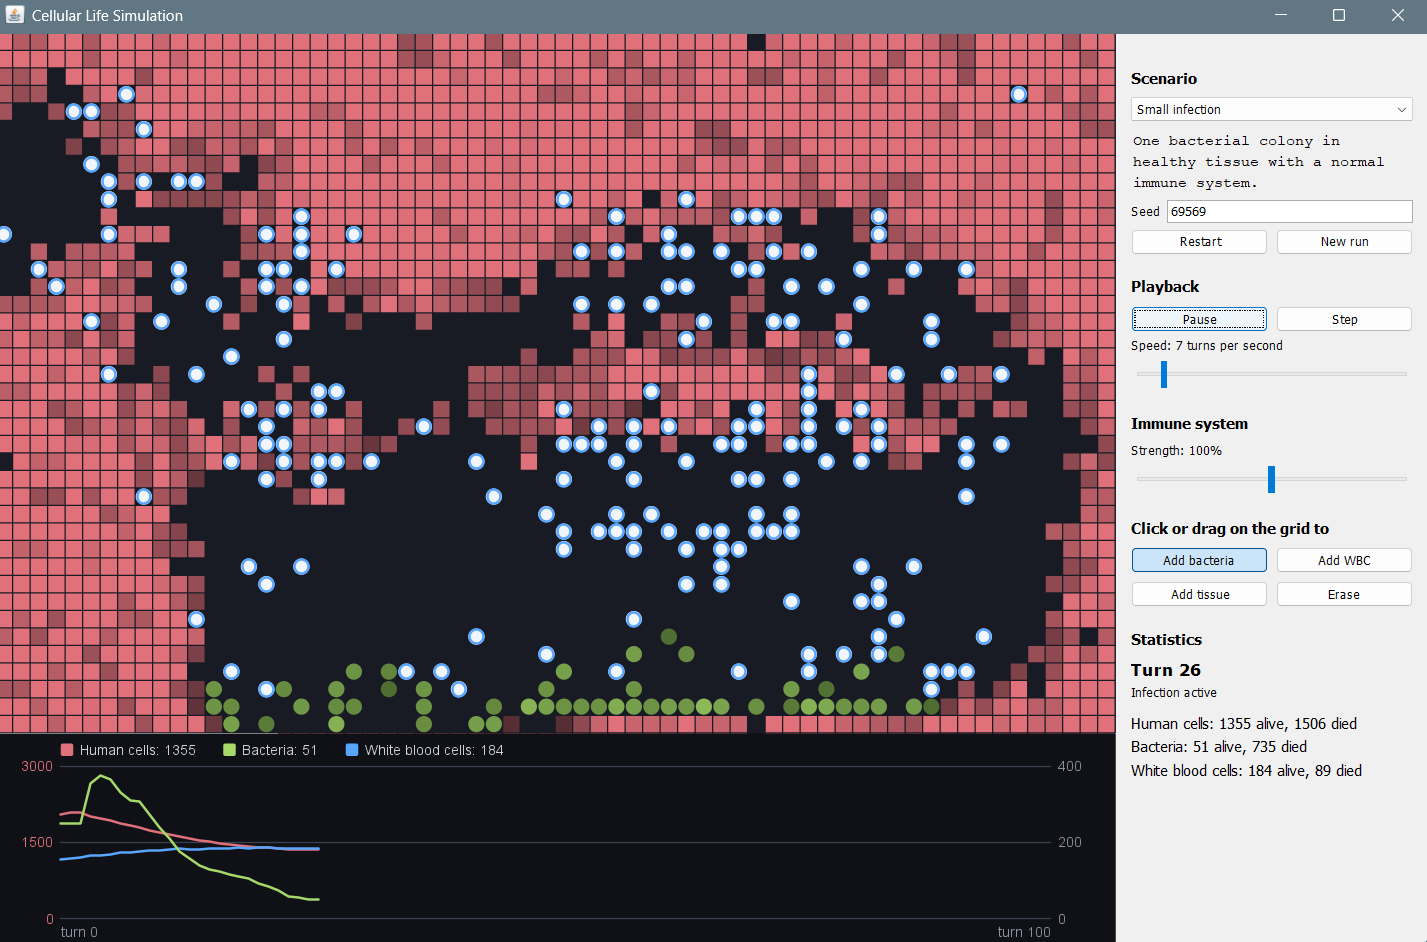
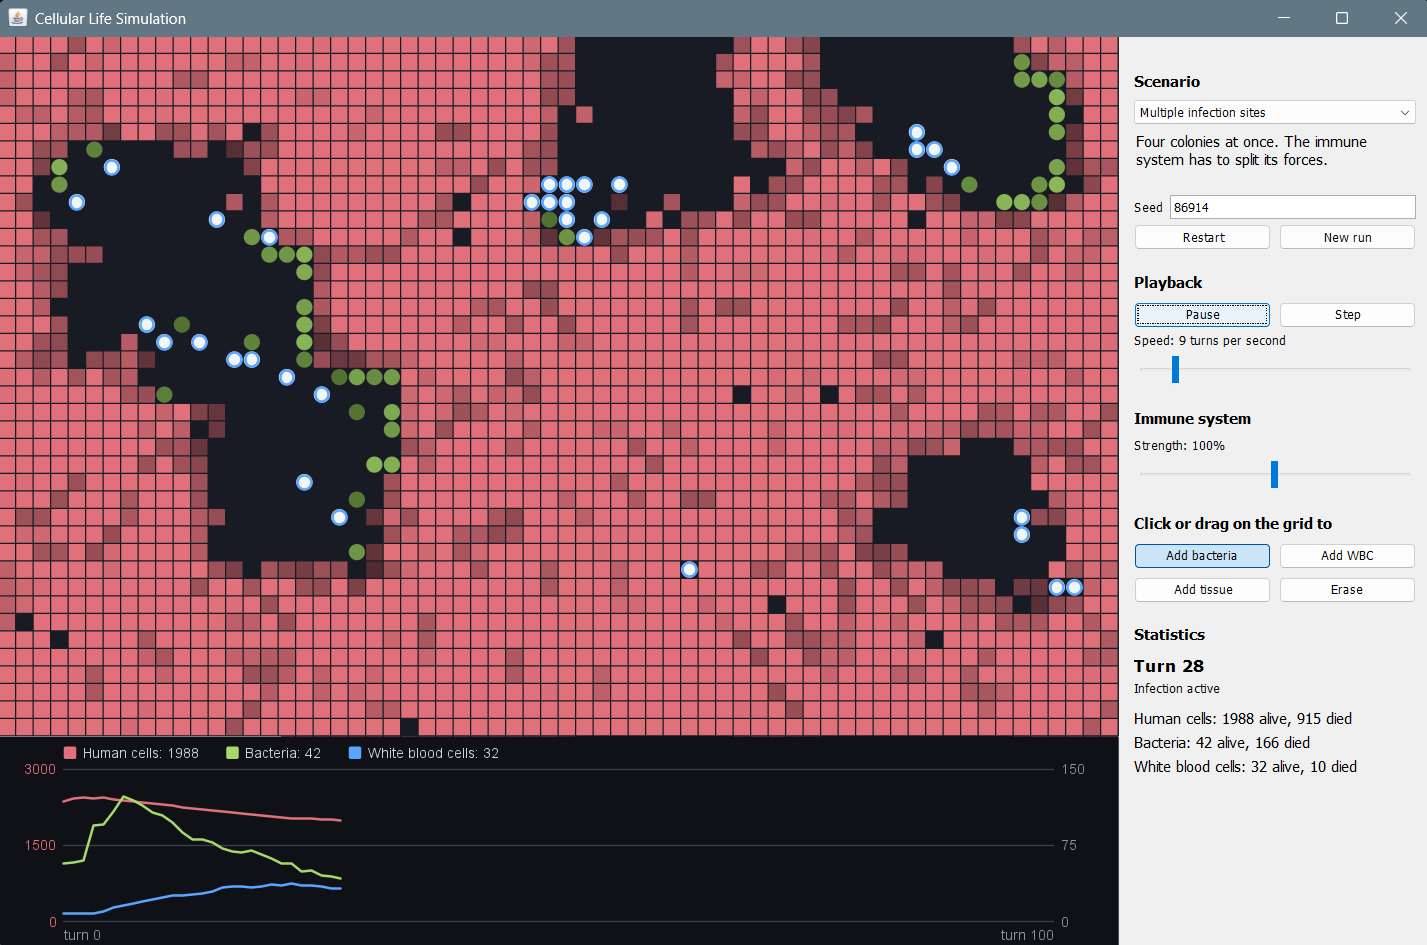
Fix description font, remove course reference, update screenshot

diff --git a/src/cellsim/ui/SimulationPanel.java b/src/cellsim/ui/SimulationPanel.java
@@ -83,7 +83,8 @@ public final class SimulationPanel extends JPanel {
         scenarioDescription.setEditable(false);
         scenarioDescription.setFocusable(false);
         scenarioDescription.setOpaque(false);
-        scenarioDescription.setFont(scenarioDescription.getFont().deriveFont(Font.PLAIN, 12f));
+        // A text area uses a monospaced font by default on Windows; match the labels instead.
+        scenarioDescription.setFont(new JLabel().getFont().deriveFont(Font.PLAIN, 12f));
         scenarioDescription.setRows(3);
         sidebar.add(row(scenarioDescription));
         scenarioBox.addActionListener(e -> restart(randomSeed()));

diff --git a/README.md b/README.md
@@ -2,7 +2,7 @@
 
 A simulation of an infection in living tissue, inspired by Conway's Game of Life. Bacteria eat their way through human cells, the tissue calls in white blood cells to hunt them down, and whatever survives regrows.
 
-Written in Java with no dependencies beyond the JDK. Built as an object-oriented programming project for the Programming 2 course at Sapienza University of Rome.
+Written in Java with no dependencies beyond the JDK.
 
 ![Four bacterial colonies are cleared by white blood cells and the tissue regrows](docs/demo.gif)
 
